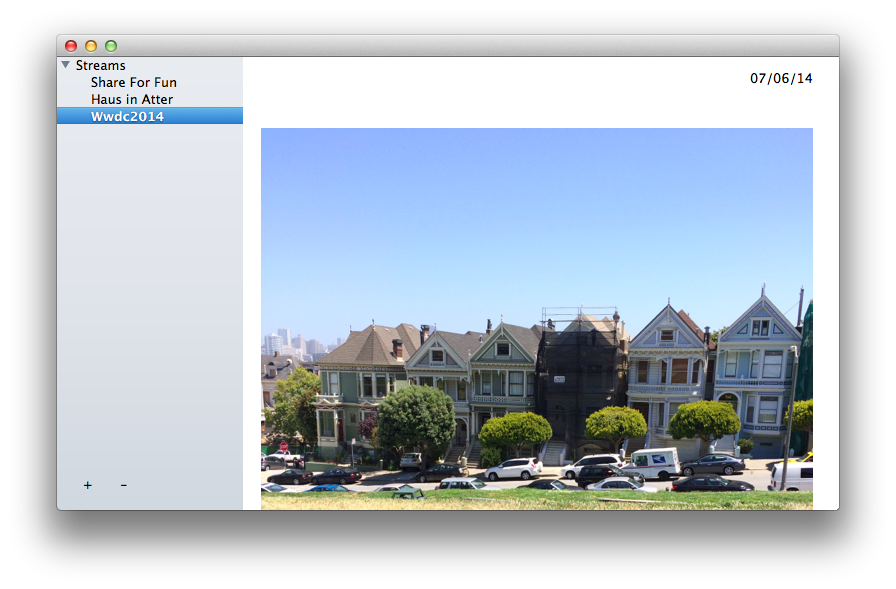
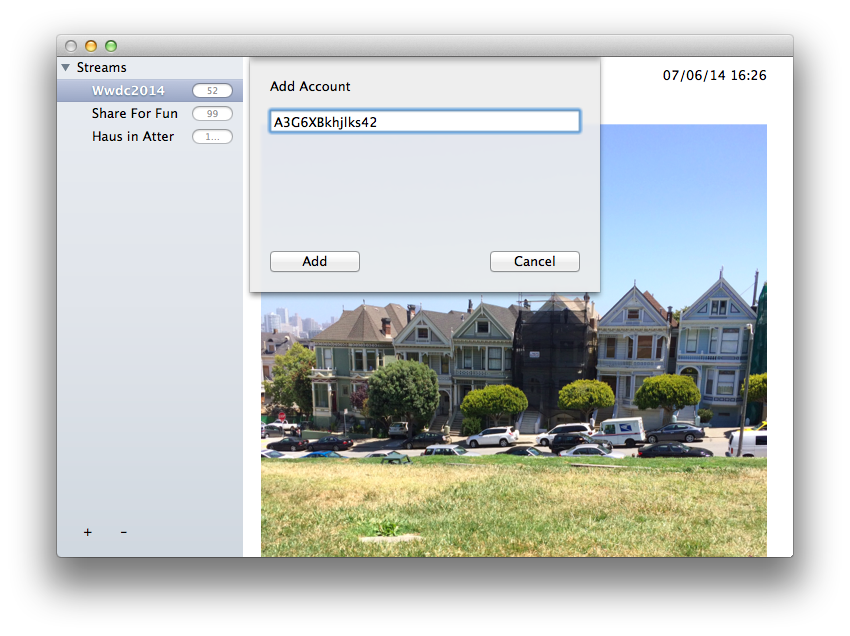
Added support for seeing the amount of items in a feed, fixed the display of dates, added new image

diff --git a/SwiftTestX/PhotoCollector.swift b/SwiftTestX/PhotoCollector.swift
@@ -21,6 +21,12 @@ class OutlineItem: NSObject {
     func hasChildren() -> Bool {
         return self.children.count > 0
     }
+    func itemCount() -> Int {
+        if let ac = self.account {
+            return ac.image_count
+        }
+        return 0
+    }
 }
 
 class PhotoCollector: NSObject, NSTableViewDelegate, NSTableViewDataSource, NSOutlineViewDataSource, NSOutlineViewDelegate {
@@ -147,8 +153,11 @@ class PhotoCollector: NSObject, NSTableViewDelegate, NSTableViewDataSource, NSOu
         
         view.prepareForReuse()
         
+        // TODO: Make Magic numbers a constant somewhere
+        let photoCellTag = 42
+        
         // only load & display the image if this method has been called
-        if let imageView:PhotoCellImageView = view.viewWithTag(42) as? PhotoCellImageView  {
+        if let imageView:PhotoCellImageView = view.viewWithTag(photoCellTag) as? PhotoCellImageView  {
             // The image will be downloaded upon first request of image, and then cached
             self.photos[row].cacheImage()
             imageView.bind("image", toObject: self.photos[row], withKeyPath: "image", options: nil)
@@ -228,8 +237,7 @@ class PhotoCollector: NSObject, NSTableViewDelegate, NSTableViewDataSource, NSOu
     }
     
     func outlineView(outlineView: NSOutlineView!, objectValueForTableColumn tableColumn: NSTableColumn!, byItem item: AnyObject!) -> AnyObject! {
-        let o:OutlineItem = item as OutlineItem
-        return o.title
+        return item
     }
     
     func outlineView(outlineView: NSOutlineView!, shouldSelectItem item: AnyObject!) -> Bool {
